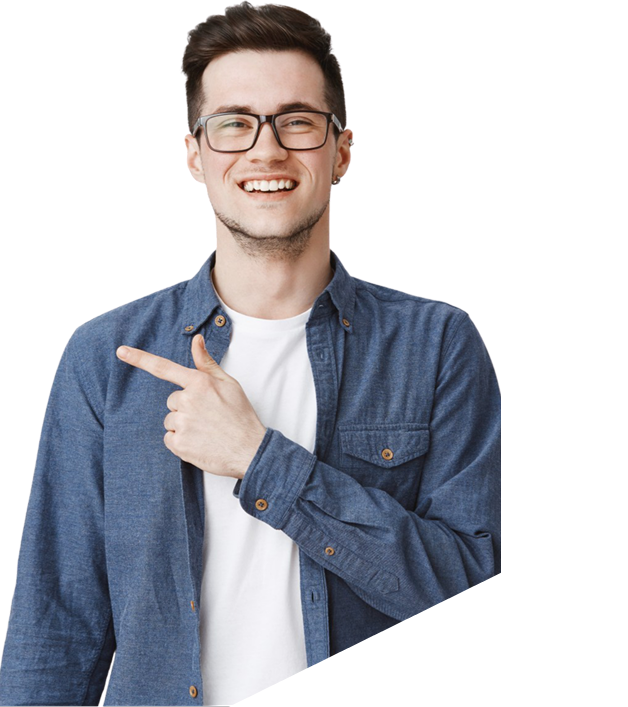
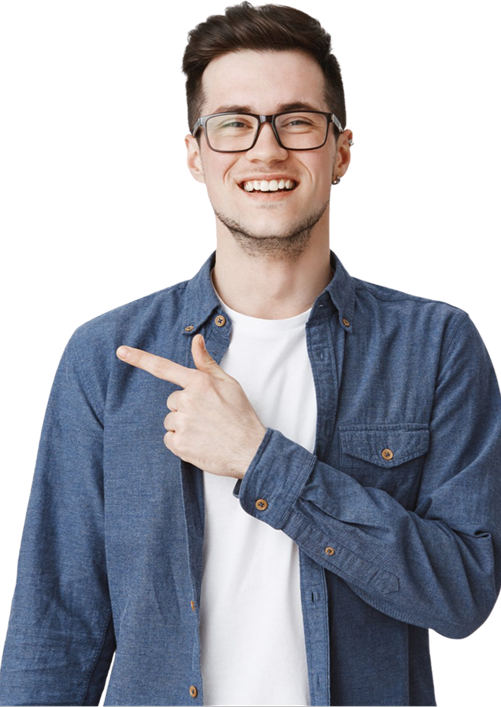
Fixed hero section

diff --git a/components/home/HeroSection.tsx b/components/home/HeroSection.tsx
@@ -5,27 +5,28 @@ import { Button } from "@/components/ui/Button";
 
 export function HeroSection() {
   return (
-    <section className="relative w-full max-w-7xl mx-auto px-6 lg:px-20 py-12 md:py-24 grid grid-cols-1 lg:grid-cols-2 gap-12 items-center">
-      {/* Left Content */}
-      <div className="flex flex-col gap-8 z-10">
-        <h1 className="text-[3.5rem] md:text-[4.5rem] font-bold leading-[1.1] text-gray-900 tracking-tight">
+    <section className="relative w-full mx-auto px-6 lg:px-20 pt-12 md:pt-24">
+      <div className="grid grid-cols-1 lg:grid-cols-2 relative px-20">
+        {/* Left Content */}
+       <div className="flex flex-col gap-10 relative z-30">
+        <h1 className="text-[3.5rem] md:text-[5.5rem] font-bold leading-[1.1] text-gray-900 tracking-tight">
           Discover <br />
           more than <br />
           <span className="text-[#00A3FF] relative inline-block z-10 w-max">
             5000+ Jobs
             {/* SVG Underline */}
-            <div className="absolute top-[85%] left-[-5%] w-[110%] -z-10 flex justify-center pointer-events-none">
+            <div className="absolute top-[98%] left-[-5%] w-[110%] -z-10 flex justify-center pointer-events-none">
               <Image src="/Header/verticleLine.svg" alt="Underline" width={455} height={40} className="w-full h-auto" />
             </div>
           </span>
         </h1>
         
-        <p className="text-gray-500 text-lg md:text-xl max-w-md leading-relaxed mt-4 font-medium">
+        <p className="text-gray-500 text-lg md:text-xl max-w-lg leading-relaxed mt-4 font-medium">
           Great platform for the job seeker that searching for new career heights and passionate about startups.
         </p>
 
         {/* Search Bar Box */}
-        <div className="bg-white p-3 rounded-md shadow-[0px_8px_30px_rgba(0,0,0,0.04)] flex flex-col md:flex-row items-stretch md:items-center gap-4 mt-2 border border-gray-100/50 relative z-50">
+        <div className="w-[1000px] h-[100px] bg-white p-3 shadow-[0px_8px_30px_rgba(0,0,0,0.04)] flex flex-col md:flex-row items-stretch md:items-center gap-4 mt-2 border border-gray-100/50 relative z-50">
           
           <div className="flex items-center gap-3 px-4 flex-1">
             <Image src="/Header/Search.svg" alt="Search Icon" width={20} height={20} className="opacity-70" />
@@ -51,35 +52,50 @@ export function HeroSection() {
             </svg>
           </div>
 
-          <Button variant="primary" className="rounded-sm bg-[#4F46E5] hover:bg-[#4338CA] px-8 py-4 h-auto whitespace-nowrap md:w-auto w-full">
+          <Button variant="primary" className=" bg-[#4F46E5] hover:bg-[#4338CA] px-8 py-4 h-auto whitespace-nowrap md:w-auto w-full">
             Search my job
           </Button>
         </div>
 
         {/* Popular Tags */}
-        <div className="flex items-center gap-2 text-sm mt-2 text-gray-500 font-medium">
+        <div className="flex items-center gap-2 text-xl mt-2 text-gray-500 font-medium">
           <span>Popular : </span>
           <span className="text-gray-700">UI Designer, UX Researcher, Android, Admin</span>
         </div>
       </div>
 
-      {/* Right Content / Image Image */}
-      <div className="relative w-full h-[500px] lg:h-[700px] flex justify-center items-end lg:items-center lg:-mt-12 z-1">
-         {/* Background Pattern centered behind the guy */}
-         <div className="absolute top-1/2 left-1/2 -translate-x-[67%] -translate-y-[55%] w-[155%] h-[130%] z-[-1] hidden md:block">
+           {/* Background Pattern */}
+         <div className="absolute top-15 left-40 -translate-x-[6%] -translate-y-[28%] w-[135%] h-[130%] z-[1] hidden md:block">
            <Image src="/Header/Pattern.svg" alt="Background Pattern" fill className="object-contain" priority />
          </div>
+        {/* Right Content / Image Container */}
+        <div className="relative w-full h-96 md:h-96 lg:h-[600px] hidden md:flex justify-center items-center">
 
-         {/* Using priority since this is hero image */}
-         <Image 
-           src="/Header/Pic.png" 
-           alt="Happy job seeker pointing at jobs" 
-           fill 
-           className="object-contain object-bottom lg:object-center drop-shadow-xl"
-           priority
-         />
+           {/* Hero Image */}
+           <Image 
+             src="/Header/Pic.png" 
+             alt="Professional" 
+             width={490}
+             height={600}
+             className="relative z-10 object-contain"
+             priority
+           />
+
+        </div>
       </div>
-      
+           {/* White Corner Bottom Right */}
+          <div 
+             className="absolute bottom-0 right-0 z-20" 
+             style={{
+               width: 0,
+               height: 0,
+               borderLeft: '500px solid transparent',
+               borderBottom: '265px solid white',
+             }}
+           ></div>
     </section>
   );
 }
+
+
+

diff --git a/components/layout/Navbar.tsx b/components/layout/Navbar.tsx
@@ -6,7 +6,7 @@ import { Button } from "@/components/ui/Button";
 
 export function Navbar() {
   return (
-    <nav className="flex items-center justify-between py-6 px-6 lg:px-20 max-w-7xl mx-auto w-full">
+    <nav className="flex items-center justify-between py-6 px-6 lg:px-20 mx-auto w-full z-10">
       <div className="flex items-center gap-12">
         <Link href="/" className="flex items-center gap-2">
           {/* We assume logo.svg is in public folder */}

diff --git a/components/home/CompanyLogos.tsx b/components/home/CompanyLogos.tsx
@@ -10,7 +10,7 @@ const companies = [
 
 export function CompanyLogos() {
   return (
-    <section className="bg-white py-12 border-b border-gray-50">
+    <section className="bg-white py-12 border-b border-gray-50 relative z-20">
       <div className="mx-auto max-w-7xl px-4 sm:px-6 lg:px-20 text-center md:text-left">
         <p className="text-sm font-medium text-gray-400 mb-8 max-w-7xl mx-auto">
           Companies we helped grow
